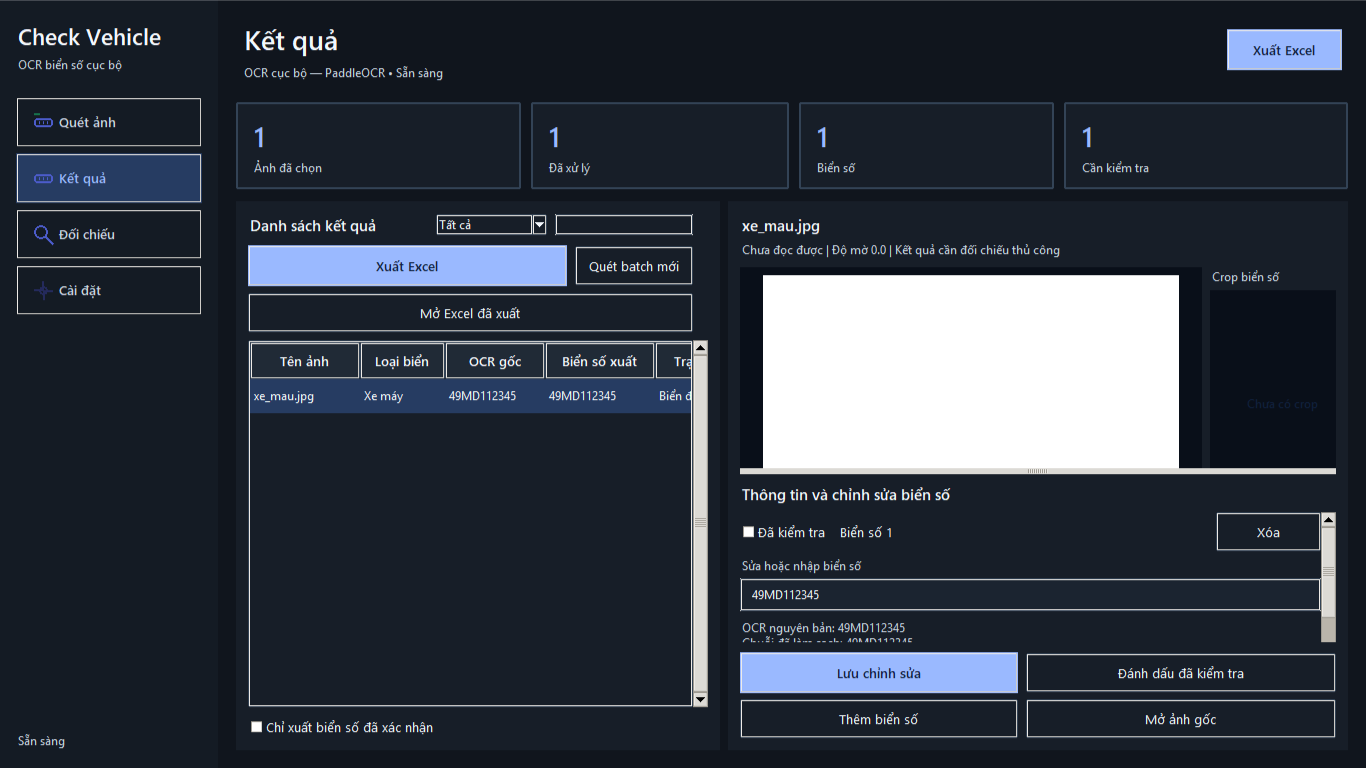
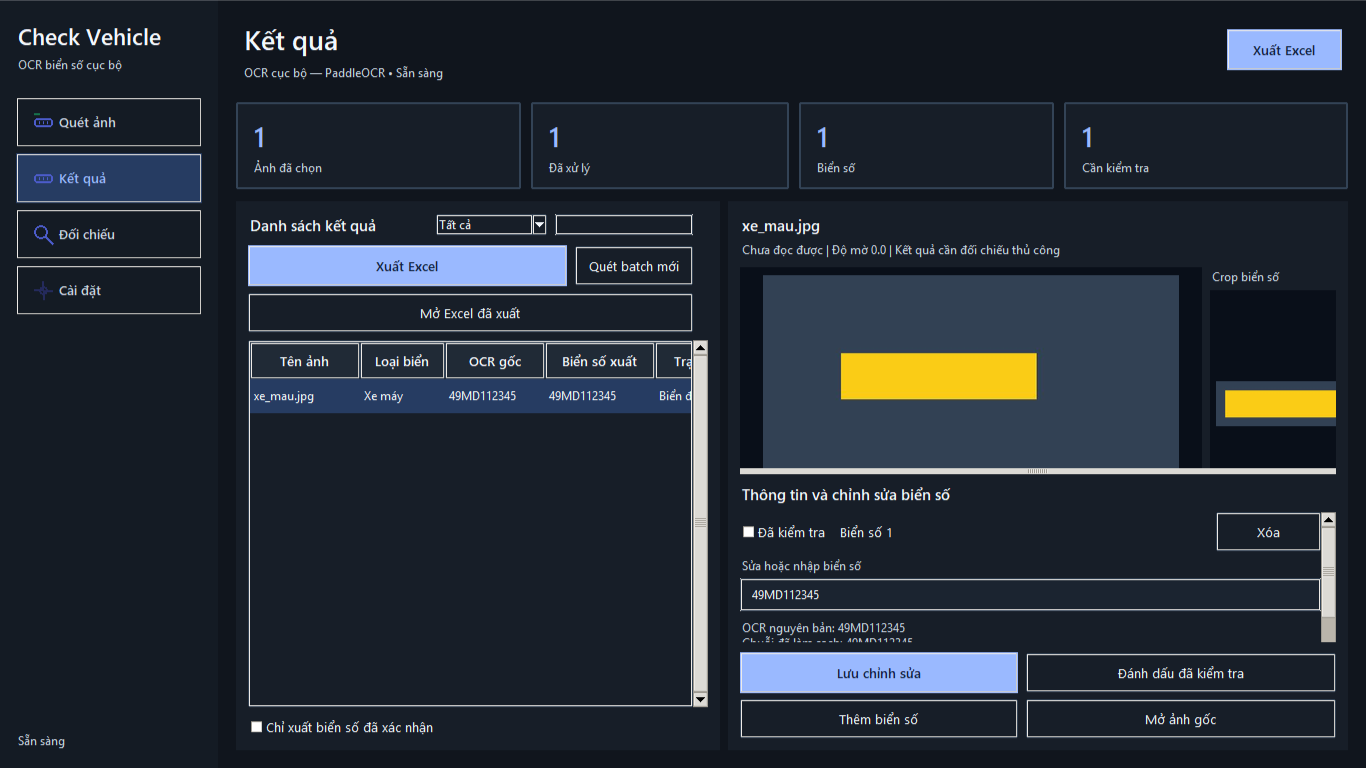
fix: restore license plate crop previews

Changed region(s): [[0.5534, 0.3438, 0.9839, 0.625]]

diff --git a/check_vehicle_ocr/results_import.py b/check_vehicle_ocr/results_import.py
@@ -1,8 +1,8 @@
 """Read a Check Vehicle OCR export back into the Results workspace.
 
-The importer is intentionally limited to the app's own ``Theo_tung_anh``
-sheet.  It never modifies the workbook and does not treat arbitrary Excel
-files as OCR results.
+The importer is intentionally limited to the app's own export sheets.  It
+never modifies the workbook and does not treat arbitrary Excel files as OCR
+results.
 """
 
 from __future__ import annotations
@@ -48,6 +48,7 @@ def load_exported_results(workbook_path: Path) -> list[ImageResult]:
         plate_columns = [(name, index) for name, index in columns.items() if re.fullmatch(r"Biển số \d+", name)]
         if not plate_columns:
             raise ResultsImportError("Sheet Theo_tung_anh không có cột Biển số để khôi phục kết quả.")
+        crop_paths = _read_crop_paths(workbook)
 
         imported: list[ImageResult] = []
         for row in rows:
@@ -59,6 +60,13 @@ def load_exported_results(workbook_path: Path) -> list[ImageResult]:
             image_path = Path(image_value).expanduser() if image_value else path.parent / file_name
             plates = [_plate(_value(values, index)) for _name, index in plate_columns]
             plates = [plate for plate in plates if plate is not None]
+            for plate in plates:
+                available_crops = crop_paths.get(_crop_key(image_path, plate.final_text), [])
+                while available_crops:
+                    crop_path = available_crops.pop(0)
+                    if crop_path.is_file():
+                        plate.crop_path = crop_path
+                        break
             width, height = _size(_value(values, columns.get("Kích thước", -1)))
             imported.append(
                 ImageResult(
@@ -78,6 +86,42 @@ def load_exported_results(workbook_path: Path) -> list[ImageResult]:
     if not imported:
         raise ResultsImportError("File Excel không có dòng ảnh nào để khôi phục vào Kết quả.")
     return imported
+
+
+def _read_crop_paths(workbook) -> dict[tuple[str, str], list[Path]]:
+    """Map export rows to their existing crop files without changing Excel."""
+
+    if "Bien_so_doc_duoc" not in workbook.sheetnames:
+        return {}
+    worksheet = workbook["Bien_so_doc_duoc"]
+    rows = worksheet.iter_rows(values_only=True)
+    headers = next(rows, None)
+    if not headers:
+        return {}
+    columns = _columns(headers)
+    required = {"Đường dẫn ảnh", "Biển số xuất Excel", "Crop biển số"}
+    if not required.issubset(columns):
+        return {}
+
+    crop_paths: dict[tuple[str, str], list[Path]] = {}
+    for row in rows:
+        values = list(row)
+        image_value = _value(values, columns["Đường dẫn ảnh"])
+        plate_value = _value(values, columns["Biển số xuất Excel"])
+        crop_value = _value(values, columns["Crop biển số"])
+        if not image_value or not plate_value or not crop_value:
+            continue
+        key = _crop_key(Path(image_value).expanduser(), plate_value)
+        crop_paths.setdefault(key, []).append(Path(crop_value).expanduser())
+    return crop_paths
+
+
+def _crop_key(image_path: Path, plate_text: str) -> tuple[str, str]:
+    """Return a stable Windows-friendly key for mapping an exported plate."""
+
+    image_key = str(image_path).strip().replace("/", "\\").casefold()
+    plate_key = re.sub(r"\s+", "", plate_text).casefold()
+    return image_key, plate_key
 
 
 def _columns(headers: tuple[object, ...]) -> dict[str, int]:

diff --git a/check_vehicle_ocr/app.py b/check_vehicle_ocr/app.py
@@ -3588,19 +3588,56 @@ class CheckVehicleApp(tk.Tk):
         if label is None:
             return
         crop_path = next((plate.crop_path for plate in (result.plates if result else []) if plate.crop_path and plate.crop_path.exists()), None)
-        if not crop_path:
-            self.crop_preview_photo = None
-            label.configure(image="", text="Chưa có crop")
-            return
         try:
-            image = Image.open(crop_path)
-            image = ImageOps.exif_transpose(image).convert("RGB")
-            image.thumbnail((150, 100), Image.Resampling.LANCZOS)
-            self.crop_preview_photo = ImageTk.PhotoImage(image)
-            label.configure(image=self.crop_preview_photo, text="")
+            if crop_path:
+                image = Image.open(crop_path)
+                image = ImageOps.exif_transpose(image).convert("RGB")
+            else:
+                image = self._crop_plate_from_source(result)
         except Exception as exc:
             self.crop_preview_photo = None
             label.configure(image="", text=f"Không mở được crop\n{exc}")
+            return
+        if image is None:
+            self.crop_preview_photo = None
+            label.configure(image="", text="Chưa có vùng biển")
+            return
+        width = label.winfo_width() - 12
+        height = label.winfo_height() - 12
+        maximum_size = (width, height) if width >= 90 and height >= 60 else (150, 100)
+        image.thumbnail(maximum_size, Image.Resampling.LANCZOS)
+        self.crop_preview_photo = ImageTk.PhotoImage(image)
+        label.configure(image=self.crop_preview_photo, text="")
+
+    @staticmethod
+    def _crop_plate_from_source(result: ImageResult | None) -> Image.Image | None:
+        """Create a safe in-memory crop when the OCR pipeline did not save one."""
+
+        if result is None or not result.image_path.is_file():
+            return None
+        source = Image.open(result.image_path)
+        try:
+            source = ImageOps.exif_transpose(source).convert("RGB")
+            image_width, image_height = source.size
+            for plate in result.plates:
+                x, y, width, height = plate.bbox
+                if width <= 0 or height <= 0:
+                    continue
+                # AI/manual paths can intentionally use the whole image as a
+                # placeholder bbox.  It is not evidence of a plate location.
+                if width >= image_width * 0.92 and height >= image_height * 0.92:
+                    continue
+                left = max(0, min(image_width, int(x)))
+                top = max(0, min(image_height, int(y)))
+                right = max(left, min(image_width, int(x + width)))
+                bottom = max(top, min(image_height, int(y + height)))
+                if right - left < 2 or bottom - top < 2:
+                    continue
+                padding = max(4, round(max(right - left, bottom - top) * 0.08))
+                return source.crop((max(0, left - padding), max(0, top - padding), min(image_width, right + padding), min(image_height, bottom + padding)))
+        finally:
+            source.close()
+        return None
 
     def _render_plate_rows(self, result: ImageResult) -> None:
         for row_index, plate in enumerate(result.plates, start=1):

diff --git a/tests/results_import_test.py b/tests/results_import_test.py
@@ -4,6 +4,8 @@ import sys
 import tempfile
 from pathlib import Path
 
+from PIL import Image
+
 
 ROOT = Path(__file__).resolve().parents[1]
 if str(ROOT) not in sys.path:
@@ -22,8 +24,18 @@ def main() -> int:
     with tempfile.TemporaryDirectory() as temporary:
         root = Path(temporary)
         source = root / "vehicle_plates.xlsx"
+        crop = root / "xe_01_crop.jpg"
+        Image.new("RGB", (120, 40), "#facc15").save(crop)
         original = [
-            ImageResult(image_path=root / "xe_01.jpg", status="OK", reason="Đủ rõ", blur_score=12.5, width=1920, height=1080, plates=[_plate("30A-123.45")]),
+            ImageResult(
+                image_path=root / "xe_01.jpg",
+                status="OK",
+                reason="Đủ rõ",
+                blur_score=12.5,
+                width=1920,
+                height=1080,
+                plates=[PlateCandidate(bbox=(12, 15, 100, 30), score=80, crop_path=crop, text="30A-123.45", raw_text="30A-123.45", readable=True)],
+            ),
             ImageResult(image_path=root / "xe_02.jpg", status="UNREADABLE", reason="Cần xem lại", blur_score=5.0, width=1280, height=720, plates=[_plate("59X1-999.99"), _plate("51F-123.45")]),
         ]
         export_results(original, source, blur_threshold=10.0, include_images=False)
@@ -32,7 +44,11 @@ def main() -> int:
         assert imported[0].image_path.name == "xe_01.jpg"
         assert imported[0].status == "OK" and imported[0].blur_score == 12.5
         assert (imported[0].width, imported[0].height) == (1920, 1080)
+        assert imported[0].plates[0].crop_path == crop
         assert [plate.final_text for plate in imported[1].plates] == ["59X1-999.99", "51F-123.45"]
+        crop.unlink()
+        imported_without_crop = load_exported_results(source)
+        assert imported_without_crop[0].plates[0].crop_path is None
         try:
             load_exported_results(root / "missing.xlsx")
         except ResultsImportError:

diff --git a/tests/ui_simplification_test.py b/tests/ui_simplification_test.py
@@ -7,6 +7,8 @@ import time
 from pathlib import Path
 from unittest.mock import patch
 
+from PIL import Image, ImageDraw
+
 
 PROJECT_ROOT = Path(__file__).resolve().parents[1]
 if str(PROJECT_ROOT) not in sys.path:
@@ -105,11 +107,23 @@ def main() -> int:
             standard.apply_plate_formatting(PlateType.MOTORCYCLE)
             special = PlateCandidate(bbox=(0, 0, 1, 1), score=80, text="49MD112345", raw_text="49MD112345", readable=True)
             special.apply_plate_formatting(PlateType.MOTORCYCLE)
-            image_path = Path(appdata) / "batch.jpg"
+            image_path = Path(appdata) / "batch.png"
+            source_image = Image.new("RGB", (900, 520), "#1f2937")
+            ImageDraw.Draw(source_image).rectangle((180, 220, 480, 310), fill="#facc15")
+            source_image.save(image_path)
+            standard.bbox = (180, 220, 300, 90)
             app.images = [image_path]
             app.results = [ImageResult(image_path=image_path, status="OK", reason="", plates=[standard, special], selected_plate_type=PlateType.MOTORCYCLE)]
+            generated_crop = app._crop_plate_from_source(app.results[0])
+            assert generated_crop is not None
+            try:
+                assert generated_crop.getpixel((generated_crop.width // 2, generated_crop.height // 2)) == (250, 204, 21)
+            finally:
+                generated_crop.close()
             app._render_detail(app.results[0])
             app.update_idletasks()
+            assert app.preview_photo is not None
+            assert app.crop_preview_photo is not None
             assert len(app.detail_plate_entries) == 2
             assert all(entry.cget("style") == "Plate.TEntry" for entry in app.detail_plate_entries)
             assert all(entry.winfo_width() >= 300 for entry in app.detail_plate_entries)

diff --git a/tools/capture_ui_review.py b/tools/capture_ui_review.py
@@ -13,7 +13,7 @@ import time
 import os
 from pathlib import Path
 
-from PIL import Image, ImageGrab
+from PIL import Image, ImageDraw, ImageGrab
 
 
 PROJECT_ROOT = Path(__file__).resolve().parents[1]
@@ -164,7 +164,9 @@ def main() -> int:
 
         with tempfile.TemporaryDirectory() as temporary:
             image_path = Path(temporary) / "xe_mau.jpg"
-            Image.new("RGB", (640, 360), "white").save(image_path)
+            source_image = Image.new("RGB", (640, 360), "#334155")
+            ImageDraw.Draw(source_image).rectangle((120, 120, 420, 190), fill="#facc15")
+            source_image.save(image_path)
             app._add_paths([image_path])
             app.plate_type_var.set("Xe máy")
             plate = PlateCandidate(

diff --git a/tools/packaged_ui_assert.py b/tools/packaged_ui_assert.py
@@ -17,7 +17,7 @@ ROOT = Path(__file__).resolve().parents[1]
 def main() -> int:
     parser = argparse.ArgumentParser()
     parser.add_argument("--executable", type=Path, default=ROOT / "release" / "CheckVehicleOCR" / "CheckVehicleOCR.exe")
-    parser.add_argument("--version", default="1.9.9")
+    parser.add_argument("--version", default="1.9.10")
     args = parser.parse_args()
     executable = args.executable.resolve()
     if not executable.is_file():

diff --git a/tests/v190_runtime_version_test.py b/tests/v190_runtime_version_test.py
@@ -19,7 +19,7 @@ from check_vehicle_ocr.version import VERSION
 
 
 def main() -> int:
-    assert VERSION == "1.9.9"
+    assert VERSION == "1.9.10"
     with tempfile.TemporaryDirectory() as temporary:
         previous_appdata, previous_localappdata = os.environ.get("APPDATA"), os.environ.get("LOCALAPPDATA")
         os.environ["APPDATA"] = temporary

diff --git a/tests/release_v180_test.py b/tests/release_v180_test.py
@@ -15,7 +15,7 @@ from check_vehicle_ocr.version import DEFAULT_GITHUB_REPOSITORY, VERSION
 
 
 def main() -> int:
-    assert VERSION == "1.9.9"
+    assert VERSION == "1.9.10"
     assert DEFAULT_GITHUB_REPOSITORY == "NovWyatt/checkparking"
     icon_root = ROOT / "assets" / "icons"
     for size in (16, 20, 24, 32, 48, 64, 128, 256):

diff --git a/check_vehicle_ocr/version.py b/check_vehicle_ocr/version.py
@@ -8,7 +8,7 @@ embed their exact build date, commit and GitHub repository.
 
 from __future__ import annotations
 
-VERSION = "1.9.9"
+VERSION = "1.9.10"
 DEFAULT_GITHUB_REPOSITORY = "NovWyatt/checkparking"
 
 try:

diff --git a/docs/results-preview-and-reconciliation-logic-report.md b/docs/results-preview-and-reconciliation-logic-report.md
@@ -7,7 +7,8 @@ Tăng khả năng xem ảnh gốc tại Kết quả và cố định quy tắc n
 ## File thay đổi
 
 - `check_vehicle_ocr/ui/pages/results_page.py`: tăng vùng ảnh, chia phần chi tiết thành hai vùng kéo được và vẫn giữ ô sửa biển số.
-- `check_vehicle_ocr/app.py`: ảnh gốc tự co theo vùng xem sau khi người dùng kéo thanh chia; crop biển số có kích thước phù hợp vùng phụ.
+- `check_vehicle_ocr/app.py`: ảnh gốc tự co theo vùng xem sau khi người dùng kéo thanh chia; crop biển số có kích thước phù hợp vùng phụ và được tạo trực tiếp từ ảnh gốc khi pipeline không lưu file crop.
+- `check_vehicle_ocr/results_import.py`: khi mở lại Excel do ứng dụng xuất, ghép an toàn đường dẫn crop từ `Bien_so_doc_duoc` theo ảnh và biển số; chỉ dùng file crop còn tồn tại.
 - `check_vehicle_ocr/reconciliation.py`: canh chỉnh chuỗi ở phần đuôi khi so khớp gần để nhận đúng một lỗi thêm/bớt ký tự.
 - `check_vehicle_ocr/ui/pages/reconciliation_page.py`: mô tả rõ OCR là danh sách gốc, báo phí dò trước và phần mềm dò sau.
 - `tests/reconciliation_test.py`, `tests/ui_simplification_test.py`: kiểm tra sai một ký tự, thiếu một ký tự, dư một ký tự và bố cục vùng xem ảnh.
@@ -20,6 +21,8 @@ Tăng khả năng xem ảnh gốc tại Kết quả và cố định quy tắc n
 - Khớp gần cần duy nhất một ứng viên và khoảng cách chỉnh sửa đúng một ký tự.
 - Phần đuôi 3 hoặc 4 ký tự được so theo canh chỉnh chuỗi, nhờ đó thiếu/dư một ký tự không làm lệch toàn bộ vị trí cuối.
 - Có từ hai ứng viên gần đúng hoặc sai khác lớn hơn một ký tự được đưa vào `Cần_xác_nhận`.
+- Crop biển số chỉ được tạo dự phòng từ bbox của detector. Bbox toàn ảnh từ AI/thêm thủ công không được coi là crop biển số.
+- Khi mở lại Excel, crop cũ chỉ hiện khi đường dẫn crop đã xuất vẫn còn trên máy; Excel nguồn luôn được mở chỉ đọc.
 
 ## Kiểm tra
 

diff --git a/docs/release-notes-v1.9.10.md b/docs/release-notes-v1.9.10.md
@@ -1,0 +1,11 @@
+# Check Vehicle OCR v1.9.10
+
+## Crop biển số luôn có cách hiển thị phù hợp
+
+Trong màn **Kết quả**, vùng **Crop biển số** ưu tiên ảnh crop mà OCR đã tạo. Nếu file crop không còn nhưng detector vẫn có vùng biển hợp lệ, ứng dụng cắt trực tiếp vùng đó từ ảnh gốc để hiển thị.
+
+Khi bạn chọn **Mở Excel đã xuất**, ứng dụng cũng khôi phục đường dẫn crop được lưu trong sheet `Bien_so_doc_duoc`. Crop chỉ được hiện khi file đó vẫn tồn tại trên máy, tránh lấy nhầm ảnh hoặc hiển thị dữ liệu cũ. Nếu file crop của một Excel cũ đã mất, Excel không lưu tọa độ vùng biển nên ảnh gốc một mình không đủ để dựng lại crop chính xác.
+
+## Giữ an toàn dữ liệu
+
+Excel nguồn vẫn luôn được mở ở chế độ chỉ đọc. Bbox toàn ảnh do AI hoặc nhập tay không bao giờ được dùng như crop biển số, nên khung bằng chứng không hiển thị toàn bộ ảnh như một biển số giả.
